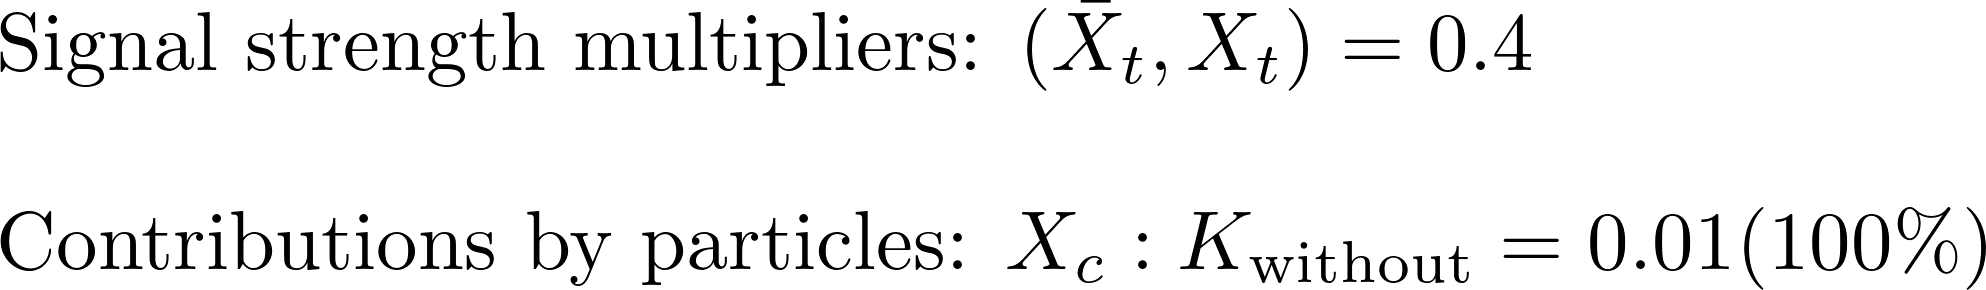
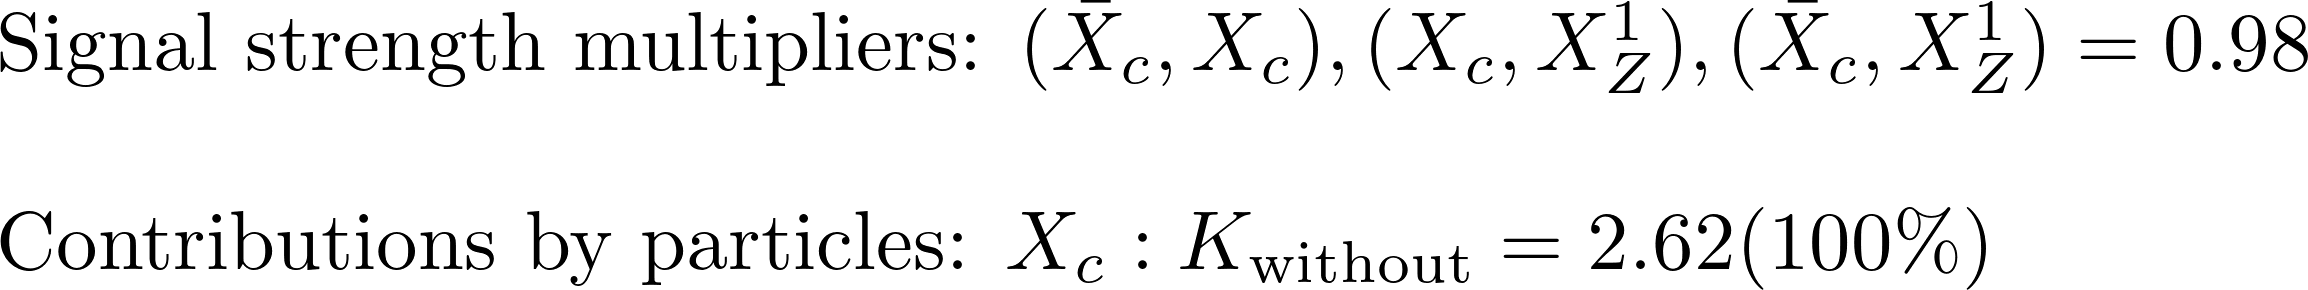
automated update by plotHiscore.py

diff --git a/protomodels/latest/index.html b/protomodels/latest/index.html
@@ -1,29 +1,29 @@
 <html>
 <body>
 <center>
-<table><td><h1>Current best protomodel: K=6.33</h1><td><img height=60px src=https://smodels.github.io/pics/banner.png></table>
+<table><td><h1>Current best protomodel: K=6.47</h1><td><img height=60px src=https://smodels.github.io/pics/banner.png></table>
 </center>
-<b><a href=./hiscore.slha>ProtoModel</a> <a href=./pmodel.py>(dict)</a> produced with <a href=https://smodels.github.io/docs/Validation124>database v1.2.4</a>, combination strategy <a href=./matrix_aggressive.png>aggressive</a> in walker 47 step 135.</b> K plots for: <a href=./M1000022.png?6551344>X<sub>Z</sub><sup>1</sup></a>, <a href=./M1000004.png?6551344>X<sub>c</sub></a>. HPD plots for: <a href=./llhd1000004.png?6551344>X<sub>c</sub></a>. SSM plots for: <a href=./ssm_-1000006_1000006.png?6551344>(x&#772;<sub>t</sub>,X<sub>t</sub>)</a><br>
+<b><a href=./hiscore.slha>ProtoModel</a> <a href=./pmodel.py>(dict)</a> produced with <a href=https://smodels.github.io/docs/Validation124>database v1.2.4</a>, combination strategy <a href=./matrix_aggressive.png>aggressive</a> in walker 30 step 67.</b> K plots for: <a href=./M1000022.png?6551766>X<sub>Z</sub><sup>1</sup></a>, <a href=./M1000004.png?6551766>X<sub>c</sub></a>. HPD plots for: <a href=./llhd1000004.png?6551766>X<sub>c</sub></a>. SSM plots for: <a href=./ssm_-1000006_1000006.png?6551766>(x&#772;<sub>t</sub>,X<sub>t</sub>)</a><br>
 <table width=80%>
 <tr><td>
-<br><b>36 predictions available. Highest r values are:</b><br><ul>
-<li><a href=http://cms-results.web.cern.ch/cms-results/public-results/publications/SUS-19-006/index.html>CMS-SUS-19-006</a>:T2tt r=1.30, r<sub>exp</sub>=0.85<br>
-<li><a href=http://cms-results.web.cern.ch/cms-results/public-results/publications/SUS-19-006/index.html>CMS-SUS-19-006</a>:T2 r=1.04, r<sub>exp</sub>=0.91<br>
-<li><a href=http://cms-results.web.cern.ch/cms-results/public-results/publications/SUS-16-033/index.html>CMS-SUS-16-033</a>:T2 r=0.97, r<sub>exp</sub>=0.69<br>
-<li><a href=http://cms-results.web.cern.ch/cms-results/public-results/publications/SUS-16-049/index.html>CMS-SUS-16-049</a>:T2tt r=0.88, r<sub>exp</sub>=0.83<br>
-<li><a href=http://cms-results.web.cern.ch/cms-results/public-results/publications/SUS-16-036/index.html>CMS-SUS-16-036</a>:T2tt r=0.82, r<sub>exp</sub>=0.56<br>
+<br><b>25 predictions available. Highest r values are:</b><br><ul>
+<li><a href=http://cms-results.web.cern.ch/cms-results/public-results/publications/SUS-19-006/index.html>CMS-SUS-19-006</a>:T2 r=1.30, r<sub>exp</sub>=1.13<br>
+<li><a href=http://cms-results.web.cern.ch/cms-results/public-results/publications/SUS-16-033/index.html>CMS-SUS-16-033</a>:T2 r=1.19, r<sub>exp</sub>=0.84<br>
+<li><a href=http://cms-results.web.cern.ch/cms-results/public-results/publications/SUS-19-006/index.html>CMS-SUS-19-006</a>:T2tt r=0.88, r<sub>exp</sub>=0.83<br>
+<li><a href=http://cms-results.web.cern.ch/cms-results/public-results/publications/SUS-16-036/index.html>CMS-SUS-16-036</a>:T2 r=0.87, r<sub>exp</sub>=0.74<br>
+<li><a href=https://atlas.web.cern.ch/Atlas/GROUPS/PHYSICS/PAPERS/SUSY-2016-26/>ATLAS-SUSY-2016-26</a>:T2cc r=0.74, r<sub>exp</sub>=N/A<br>
 </ul>
 <td><br><b>K values without analyses: (contribution)</b><br>
 <ul>
-<li> <a href=https://atlas.web.cern.ch/Atlas/GROUPS/PHYSICS/PAPERS/SUSY-2013-02/>ATLAS-SUSY-2013-02</a>: 4.68 (12%)
-<li> <a href=>CMS-SUS-16-033</a>: 3.81 (19%)
-<li> <a href=https://twiki.cern.ch/twiki/bin/view/CMSPublic/PhysicsResultsSUS13012>CMS-SUS-13-012</a>: 3.14 (24%)
-<li> <a href=https://atlas.web.cern.ch/Atlas/GROUPS/PHYSICS/PAPERS/SUSY-2016-07/>ATLAS-SUSY-2016-07</a>: 0.37 (45%)
-<td><img width=600px src=./texdoc.png?1599551344>
-<br><font size=-1>Last updated: Tue Sep  8 09:49:04 2020</font>
+<li> <a href=https://atlas.web.cern.ch/Atlas/GROUPS/PHYSICS/PAPERS/SUSY-2013-02/>ATLAS-SUSY-2013-02</a>: 4.79 (13%)
+<li> <a href=>CMS-SUS-16-033</a>: 3.78 (21%)
+<li> <a href=https://twiki.cern.ch/twiki/bin/view/CMSPublic/PhysicsResultsSUS13012>CMS-SUS-13-012</a>: 3.49 (24%)
+<li> <a href=https://atlas.web.cern.ch/Atlas/GROUPS/PHYSICS/PAPERS/SUSY-2016-07/>ATLAS-SUSY-2016-07</a>: 1.25 (41%)
+<td><img width=600px src=./texdoc.png?1599551766>
+<br><font size=-1>Last updated: Tue Sep  8 09:56:06 2020</font>
 </table><table style="width:80%">
-<td width=45%><img height=580px src=./ruler.png?1599551344><td width=55%><img height=380px src=./decays.png?1599551344>
-<font size=-3><iframe type="text/html" height="220px" width="100%s" frameborder="0" src="./rawnumbers.html?1599551344"></iframe></font>
+<td width=45%><img height=580px src=./ruler.png?1599551766><td width=55%><img height=380px src=./decays.png?1599551766>
+<font size=-3><iframe type="text/html" height="220px" width="100%s" frameborder="0" src="./rawnumbers.html?1599551766"></iframe></font>
 </table>
 </body>
 </html>

diff --git a/protomodels/latest/rawnumbers.html b/protomodels/latest/rawnumbers.html
@@ -2,9 +2,8 @@
 <tr><th>Analysis Name</th><th>Type</th><th>Dataset</th><th>Observed</th><th>Expected</th><th>Approx &sigma;</th><th>Particles</th>
 </tr>
 <tr><td><a href=https://atlas.web.cern.ch/Atlas/GROUPS/PHYSICS/PAPERS/SUSY-2013-02/>ATLAS-SUSY-2013-02</a></td><td>em</td> <td>SR6jtp</td><td>6</td><td>4.9 +/- 1.6</td><td style="text-align:right">0.4 &sigma;</td><td style="text-align:right">X<sub>c</sub></td></tr>
-<tr><td><a href=https://atlas.web.cern.ch/Atlas/GROUPS/PHYSICS/PAPERS/SUSY-2013-15/>ATLAS-SUSY-2013-15</a></td><td>em</td> <td>tNboost</td><td>5</td><td>3.3 +/- 0.7</td><td style="text-align:right">0.9 &sigma;</td><td style="text-align:right">X<sub>t</sub></td></tr>
-<tr><td><a href=http://atlas.web.cern.ch/Atlas/GROUPS/PHYSICS/PAPERS/SUSY-2015-02/>ATLAS-SUSY-2015-02</a></td><td>em</td> <td>SR1</td><td>12</td><td>5.5 +/- 0.72</td><td style="text-align:right">2.6 &sigma;</td><td style="text-align:right">X<sub>t</sub></td></tr>
 <tr><td><a href=https://atlas.web.cern.ch/Atlas/GROUPS/PHYSICS/PAPERS/SUSY-2016-07/>ATLAS-SUSY-2016-07</a></td><td>em</td> <td>2j_Meff_1200</td><td>611</td><td>526 +/- 31</td><td style="text-align:right">2.2 &sigma;</td><td style="text-align:right">X<sub>c</sub></td></tr>
-<tr><td><a href=https://twiki.cern.ch/twiki/bin/view/CMSPublic/PhysicsResultsSUS13012>CMS-SUS-13-012</a></td><td>ul</td> <td>-</td><td> 30.4 fb </td><td> 18.5 fb</td><td style="text-align:right">1.3 &sigma;</td><td style="text-align:right">X<sub>c</sub></td></tr>
-<tr><td><a href=http://cms-results.web.cern.ch/cms-results/public-results/publications/SUS-16-050/index.html>CMS-SUS-16-050</a></td><td>ul</td> <td>-</td><td> 78.7 fb </td><td> 43.4 fb</td><td style="text-align:right">1.6 &sigma;</td><td style="text-align:right">X<sub>t</sub></td></tr>
+<tr><td><a href=https://atlas.web.cern.ch/Atlas/GROUPS/PHYSICS/PAPERS/SUSY-2016-16/>ATLAS-SUSY-2016-16</a></td><td>em</td> <td>tN_high</td><td>8</td><td>3.8 +/- 1</td><td style="text-align:right">1.9 &sigma;</td><td style="text-align:right">X<sub>t</sub></td></tr>
+<tr><td><a href=https://twiki.cern.ch/twiki/bin/view/CMSPublic/PhysicsResultsSUS13012>CMS-SUS-13-012</a></td><td>ul</td> <td>-</td><td> 27.7 fb </td><td> 17.2 fb</td><td style="text-align:right">1.2 &sigma;</td><td style="text-align:right">X<sub>c</sub></td></tr>
+<tr><td><a href=http://cms-results.web.cern.ch/cms-results/public-results/publications/SUS-16-050/index.html>CMS-SUS-16-050</a></td><td>ul</td> <td>-</td><td> 4.9 fb </td><td> 2.8 fb</td><td style="text-align:right">1.5 &sigma;</td><td style="text-align:right">X<sub>t</sub></td></tr>
 </table>

diff --git a/protomodels/latest/pmodel.py b/protomodels/latest/pmodel.py
@@ -1,1 +1,1 @@
-{'masses': {1000022: 363.701, 1000006: 697.857, 1000004: 854.972}, 'ssmultipliers': {(1000022, 1000022): 0.0, (1000006, 1000006): 0.404, (-1000006, 1000006): 0.404, (-1000006, -1000006): 0.404, (1000006, 1000022): 0.404, (-1000006, 1000022): 0.404, (1000004, 1000004): 0.997, (-1000004, 1000004): 0.997, (-1000004, -1000004): 0.997, (1000004, 1000022): 0.997, (-1000004, 1000022): 0.997, (1000004, 1000006): 0.997, (-1000004, 1000006): 0.997, (-1000006, 1000004): 0.997, (-1000006, -1000004): 0.997}, 'decays': {1000022: {}, 1000006: {1000022: 1.0}, 1000004: {1000022: 1.0}}, 'timestamp': 'Tue Sep  8 09:48:58 2020', 'Z': 3.143, 'K': 6.328, 'step': 135, 'codever': '1.0', 'dbver': '1.2.4'}
+{'masses': {1000022: 317.706, 1000004: 835.318, 1000006: 1162.146}, 'ssmultipliers': {(1000022, 1000022): 0.0, (1000004, 1000004): 1.286, (-1000004, 1000004): 0.978, (-1000004, -1000004): 0.999, (1000004, 1000022): 0.978, (-1000004, 1000022): 0.978, (1000006, 1000006): 0.999, (-1000006, 1000006): 0.999, (-1000006, -1000006): 0.999, (1000006, 1000022): 0.999, (-1000006, 1000022): 0.999, (1000004, 1000006): 0.999, (-1000006, 1000004): 0.999, (-1000004, 1000006): 0.999, (-1000006, -1000004): 0.999}, 'decays': {1000022: {}, 1000004: {1000022: 1.0}, 1000006: {1000022: 1.0}}, 'timestamp': 'Tue Sep  8 09:56:00 2020', 'Z': 3.165, 'K': 6.467, 'step': 67, 'codever': '1.0', 'dbver': '1.2.4'}
